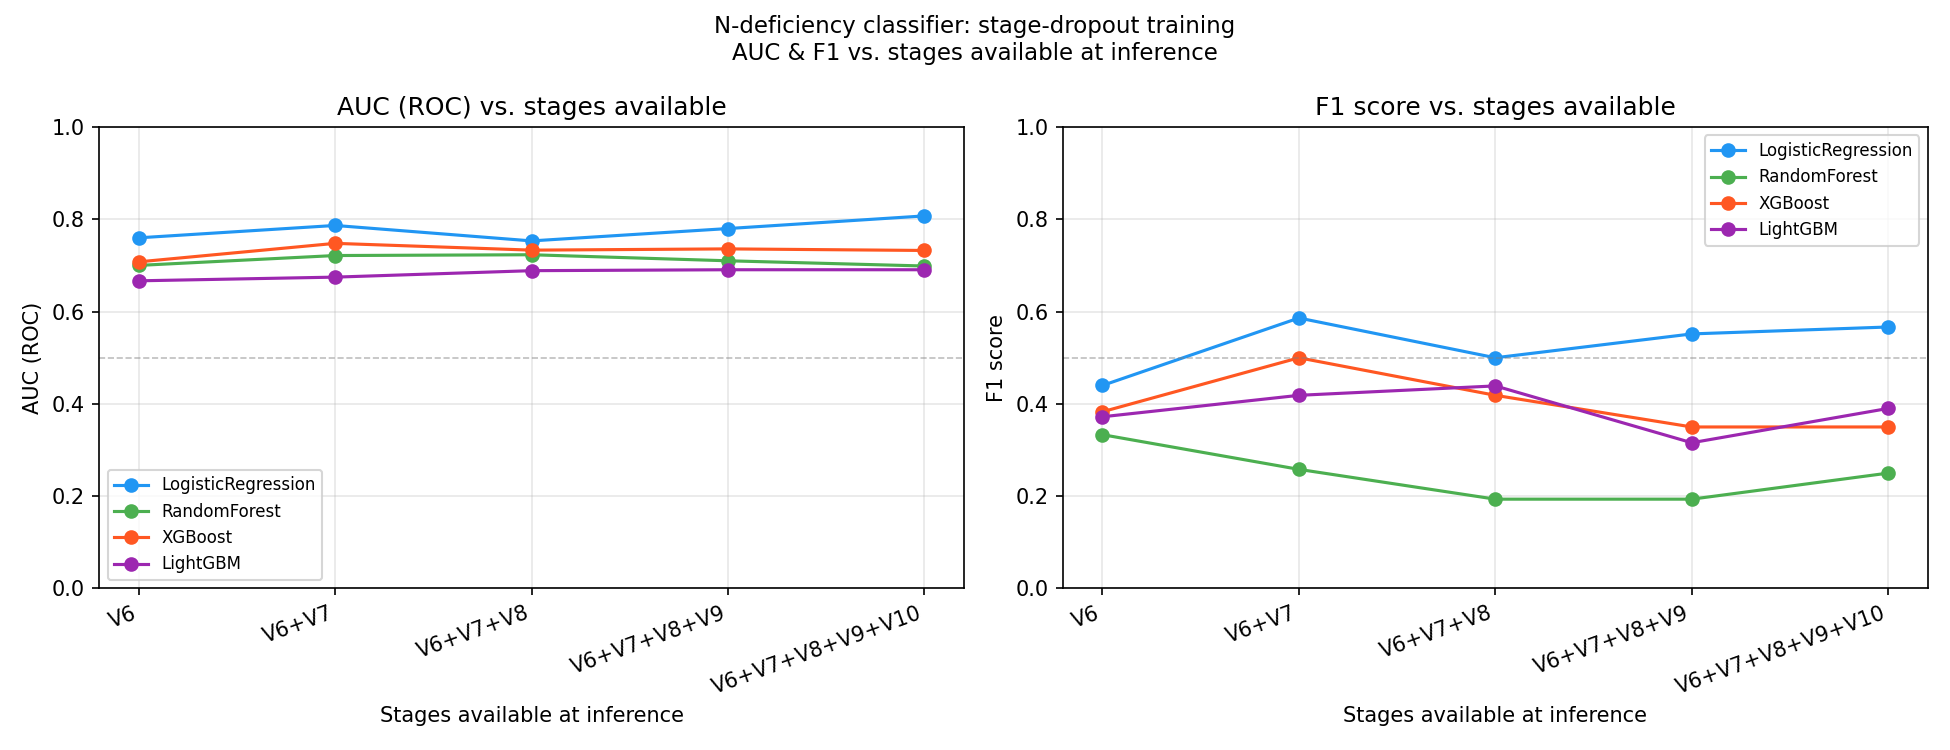
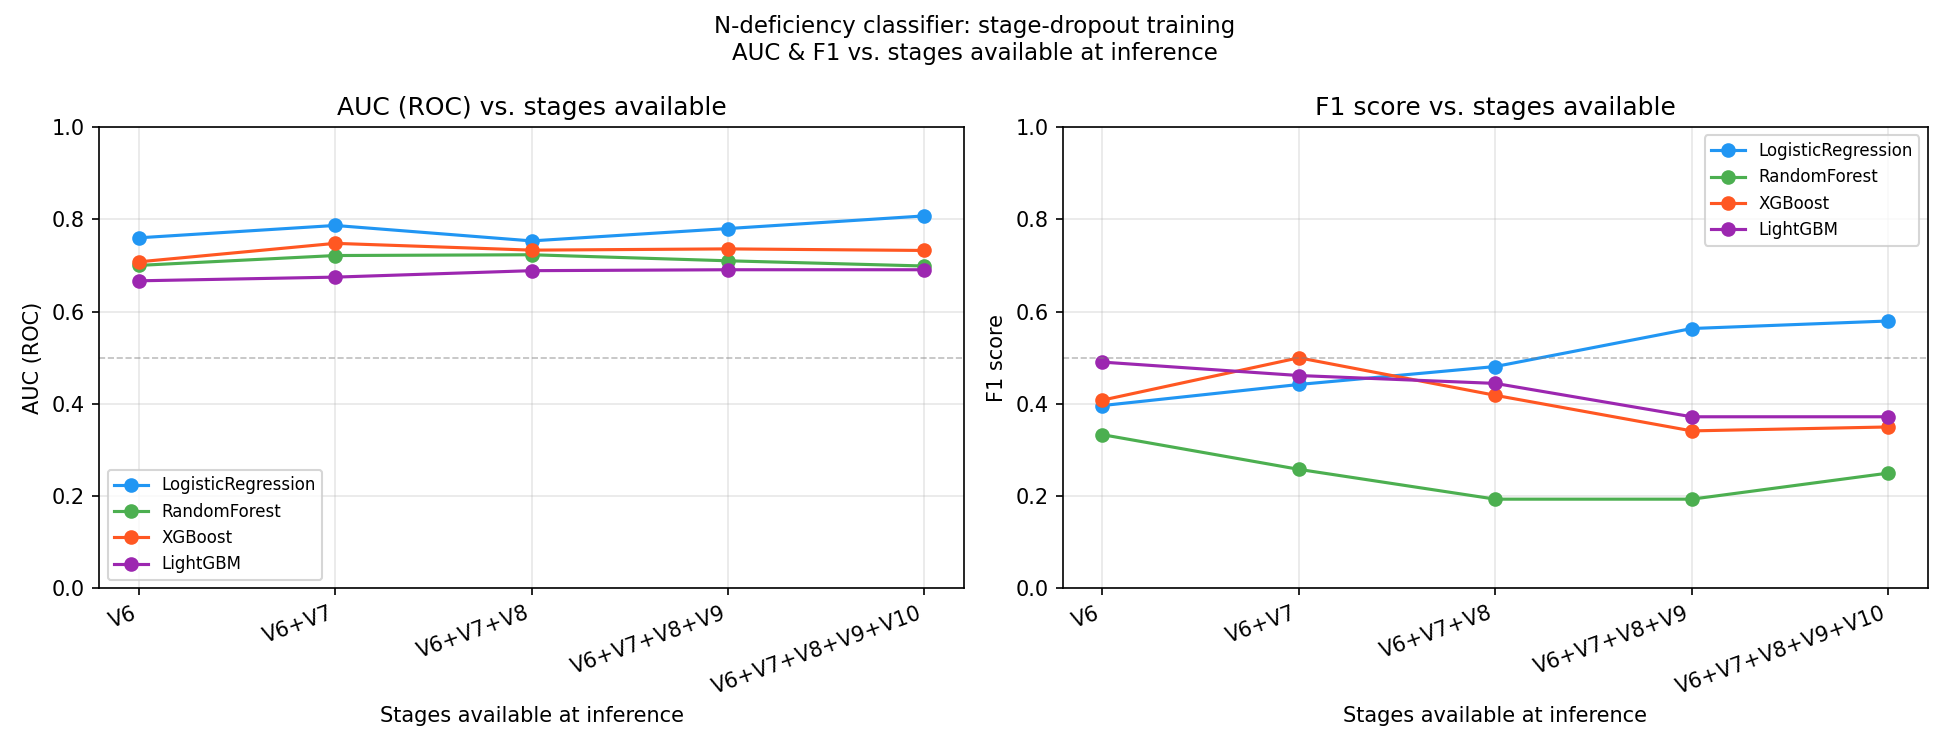
chore: add outputs, model, and scripts using Fbetha now instead of F1

Changed region(s): [[0.5538, 0.46, 0.9846, 0.6133], [0.8308, 0.4293, 0.9846, 0.46], [0.6154, 0.3987, 0.7385, 0.46]]

diff --git a/pipelines/remote/train_models.py b/pipelines/remote/train_models.py
@@ -147,15 +147,20 @@ def best_threshold_metrics(model, X_test, y_test, threshold: float | None = None
     }
 
 
-def find_threshold(model, X_train, y_train) -> float:
+def find_threshold(model, X_train, y_train, beta: float = 2.0) -> float:
     """
-    Find the decision threshold that maximises F1 on training-set predictions.
+    Find the decision threshold that maximises F-beta on training-set predictions.
+
+    beta=2 weights recall twice as much as precision, reflecting the scouting
+    priority: missing a deficient field (false negative) is more costly than
+    a wasted scout visit (false positive).
     This threshold is stored and applied fixed to the test set to avoid leakage.
     """
     proba = model.predict_proba(X_train)[:, 1]
     precisions, recalls, thresholds = precision_recall_curve(y_train, proba)
-    f1s = 2 * precisions * recalls / (precisions + recalls + 1e-9)
-    return float(thresholds[np.argmax(f1s[:-1])]) if len(thresholds) else 0.5
+    b2 = beta ** 2
+    fbeta = (1 + b2) * precisions * recalls / (b2 * precisions + recalls + 1e-9)
+    return float(thresholds[np.argmax(fbeta[:-1])]) if len(thresholds) else 0.5
 
 
 def main() -> None:
@@ -212,24 +217,24 @@ def main() -> None:
 
     results = []
     fitted = {}   # name -> (model, scaled, threshold)
-    best_auc, best_name = -np.inf, None
+    best_recall, best_name = -np.inf, None
 
     for name, (model, scaled) in clf_defs.items():
         Xtr = X_aug_sc if scaled else X_aug
         Xte = X_test_sc if scaled else X_test_np
         model.fit(Xtr, y_aug)
-        # Threshold found on training predictions only, applied fixed here.
+        # F-beta (β=2) threshold found on training predictions only, applied fixed here.
         thresh = find_threshold(model, Xtr, y_aug)
         m = best_threshold_metrics(model, Xte, y_test, threshold=thresh)
         results.append({"model": name, **m})
         fitted[name] = (model, scaled, thresh)
         print(f"  {name:<20}  AUC={m['AUC']:.4f}  F1={m['F1']:.4f}  "
               f"Recall={m['Recall']:.4f}  Specif={m['Specif']:.4f}  (thresh={m['Threshold']})")
-        if m["AUC"] > best_auc:
-            best_auc, best_name = m["AUC"], name
+        if m["Recall"] > best_recall:
+            best_recall, best_name = m["Recall"], name
 
     best_model, best_scaled, best_thresh = fitted[best_name]
-    print(f"\n  Best model: {best_name} (AUC={best_auc:.4f}, thresh={best_thresh:.3f})")
+    print(f"\n  Best model: {best_name} (Recall={best_recall:.4f}, thresh={best_thresh:.3f})")
     with open(MODELS_DIR / f"{best_name}_clf.pkl", "wb") as f:
         pickle.dump({"model": best_model, "scaler": scaler, "col_means": col_means,
                      "feat_cols": feat_cols, "stages": STAGES, "threshold": best_thresh}, f)
